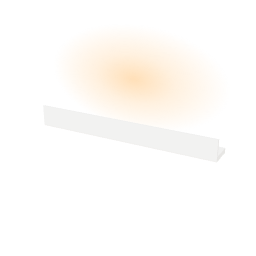
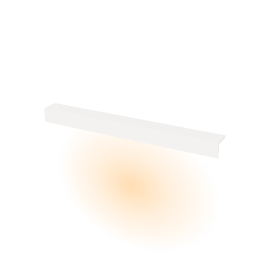
fix: pull-out board's rail only behind the wardrobe; ceiling cove restyled as a slim white band against the ceiling with warm light grazing down the walls
Claude-Session: https://claude.ai/code/session_01AFnSiYVaDU1pMPqiY52pPf

Changed region(s): [[0.3125, 0.5625, 0.7188, 0.9062], [0.3125, 0.1875, 0.75, 0.4375], [0.8438, 0.5938, 0.875, 0.625]]

diff --git a/src/furniture/meshes.tsx b/src/furniture/meshes.tsx
@@ -244,16 +244,19 @@ const recessed: Builder = ({ w, h, c, off }) => (
   </>
 );
 
-/** Plaster cornice along the top of a wall hiding a warm LED that washes the wall and the ceiling (indirect light). */
-const cornice: Builder = ({ w, d, c, off }) => {
+/**
+ * Ceiling cove: a slim white band against the ceiling, open at the bottom, hiding a warm LED that grazes down the wall
+ * (indirect light). Its top is the top of the piece: place it so it meets the ceiling.
+ */
+const cornice: Builder = ({ w, d, h, c, off }) => {
   const zb = -d / 2;
+  const white = '#f4f1ea';
   return (
     <>
-      <B p={[0, 0.012, zb + 0.06]} s={[w, 0.024, 0.12]} c={'#f2eee6'} r={0.9} />
-      <B p={[0, 0.06, zb + 0.115]} s={[w, 0.1, 0.012]} c={'#f2eee6'} r={0.9} />
-      <B p={[0, 0.0, zb + 0.06]} s={[w, 0.004, 0.124]} c={'#e6e1d8'} r={0.9} />
-      <Neon p={[0, 0.03, zb + 0.05]} s={[w - 0.04, 0.008, 0.012]} c={off ? '#cfcac2' : c} k={off ? 0 : 1.6} />
-      {!off && <Glow p={[0, 0.3, zb + 0.004]} s={[w, 0.55]} c={c} o={0.7} />}
+      <B p={[0, h - 0.006, zb + d / 2]} s={[w, 0.012, d]} c={white} r={0.9} />
+      <B p={[0, h / 2, zb + d - 0.006]} s={[w, h, 0.012]} c={white} r={0.9} />
+      <Neon p={[0, h - 0.02, zb + 0.03]} s={[w - 0.04, 0.008, 0.012]} c={off ? '#d9d6d0' : c} k={off ? 0 : 1.6} />
+      {!off && <Glow p={[0, h - 0.4, zb + 0.004]} s={[w, 0.8]} c={c} o={0.75} />}
     </>
   );
 };
@@ -1325,7 +1328,8 @@ const pullOutBoard: Builder = ({ w, d, h, open }) => {
   const z = d / 2 - 0.015;
   return (
     <>
-      <B p={[0, h - 0.02, 0]} s={[w, 0.03, d]} c={STEEL} m={0.6} r={0.3} />
+      {/* The rail only where the board is kept (hidden behind the wardrobe); the board runs out past its end */}
+      <B p={[-w / 4, h - 0.02, 0]} s={[w / 2, 0.03, d]} c={STEEL} m={0.6} r={0.3} />
       <group position={[x, h - 0.06 - bh / 2, z]}>
         <B p={[0, 0, 0]} s={[bw, bh, 0.02]} c={STEEL} m={0.6} r={0.3} />
         <B p={[0, 0, 0.0105]} s={[bw - 0.03, bh - 0.03, 0.002]} c={'#fbfbf9'} r={0.12} />

diff --git a/src/furniture/catalog.ts b/src/furniture/catalog.ts
@@ -117,7 +117,7 @@ export const CATALOG: CatalogItem[] = [
   item('lampara-colgante', 'Lámpara colgante', 'Iluminación', 'colgante', [0.35, 0.35, 0.9], '#2f2b28', { elevation: 1.7, light: 0.05 }),
   item('aplique-pared', 'Aplique de pared', 'Iluminación', 'aplique', [0.16, 0.14, 0.28], '#d9c8a8', { elevation: 1.7, light: 0.5 }),
   item('tira-led-calida', 'Tira LED cálida (luz indirecta)', 'Iluminación', 'tiraLed', [1.0, 0.02, 0.02], '#ffd29a', { elevation: 2.4, light: 0.5 }),
-  item('cornisa-led', 'Cornisa con LED oculto (luz indirecta)', 'Iluminación', 'cornisaLed', [1.0, 0.13, 0.11], '#ffd29a', { elevation: 2.35, light: 0.6 }),
+  item('cornisa-led', 'Cornisa con LED oculto (luz indirecta)', 'Iluminación', 'cornisaLed', [1.0, 0.1, 0.08], '#ffd29a', { elevation: 2.52, light: 0.7 }),
   // Comedor
   item('mesa-comedor-4', 'Mesa de comedor 4 puestos', 'Comedor', 'mesa', [1.2, 0.8, 0.75], ROBLE, { seats: 4 }),
   item('mesa-comedor-6', 'Mesa de comedor 6 puestos', 'Comedor', 'mesa', [1.8, 0.9, 0.75], ROBLE, { seats: 6 }),
